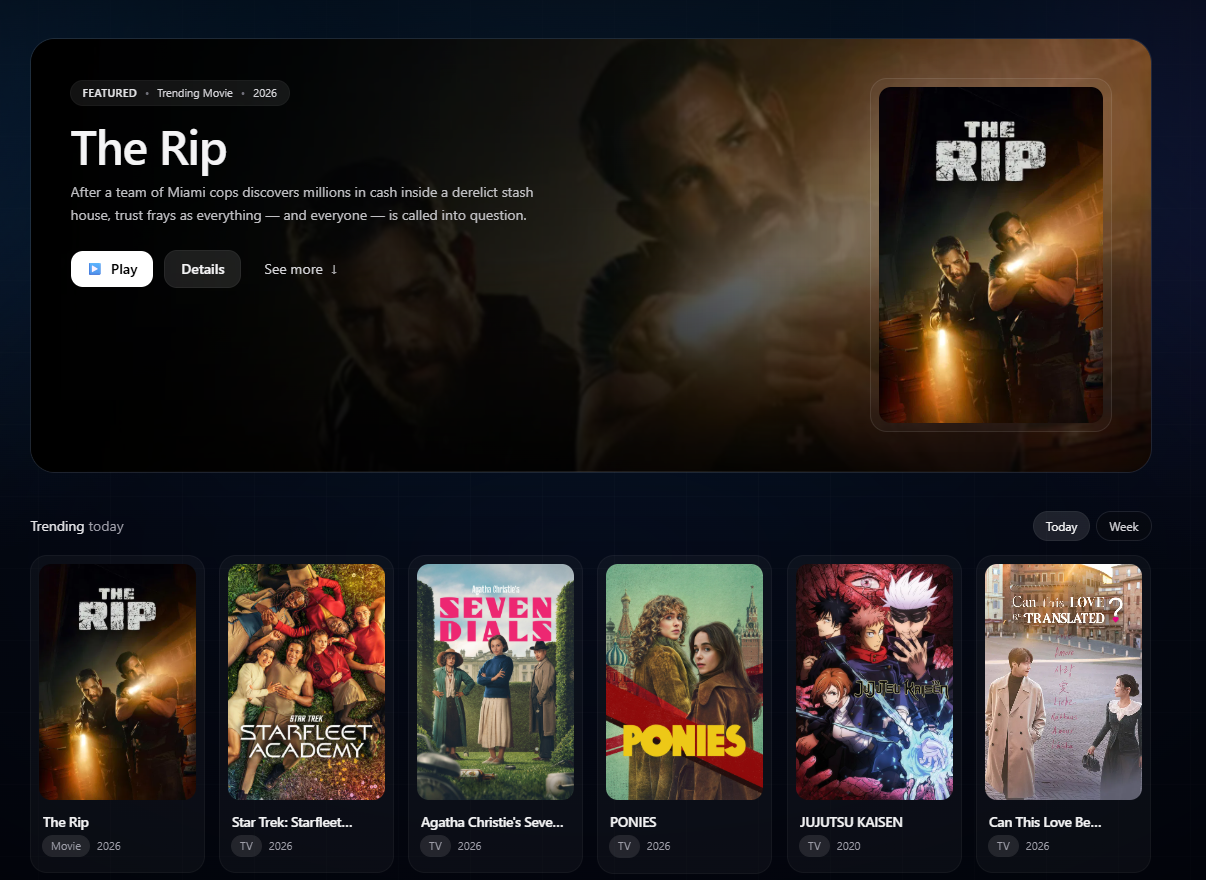
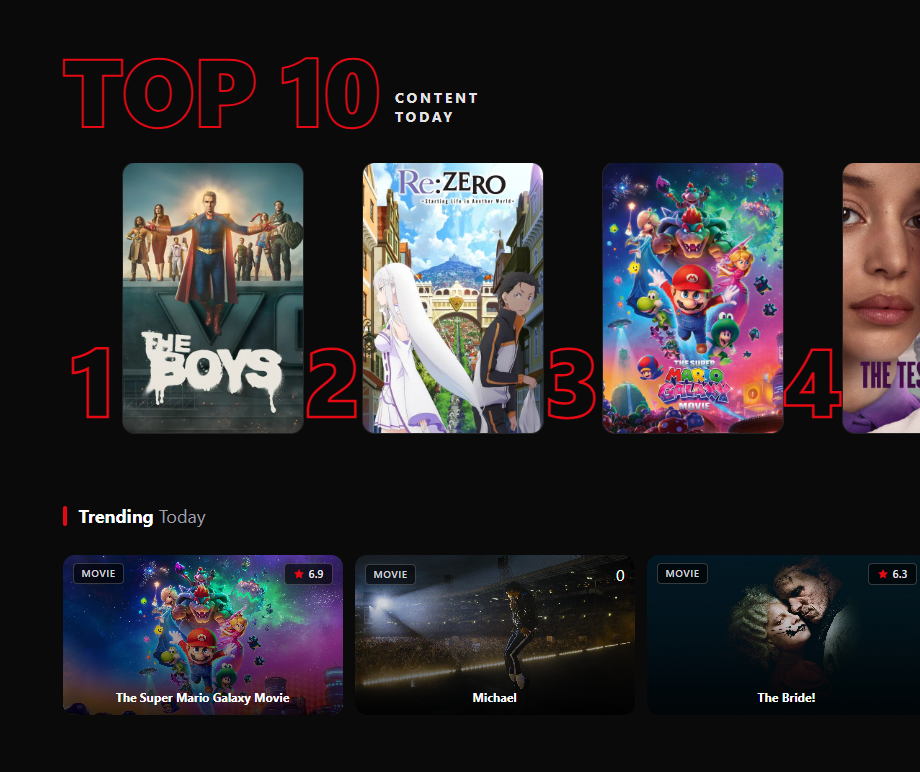
change streaming app project image & add it to projects page

diff --git a/src/app/projects/page.tsx b/src/app/projects/page.tsx
@@ -31,6 +31,14 @@ const PROJECTS: Project[] = [
     tech: ["JavaScript", "Node.js", "MongoDB"],
   },
   {
+    title: "Streaming App",
+    description:
+      "A self-hosted media streaming web app for discovering and playing movies and TV shows from user-configured sources.",
+    repo: "https://github.com/xalonious/streaming-app",
+    image: "/projects/streamingapp.png",
+    tech: ["TypeScript", "React", "Node.js", "Express", "Tailwind"],
+  },
+  {
     title: "xanderGPT",
     description:
       "A ChatGPT-style web app powered by a local LLM via Ollama, featuring real-time streaming responses, persistent conversations & web search.",
